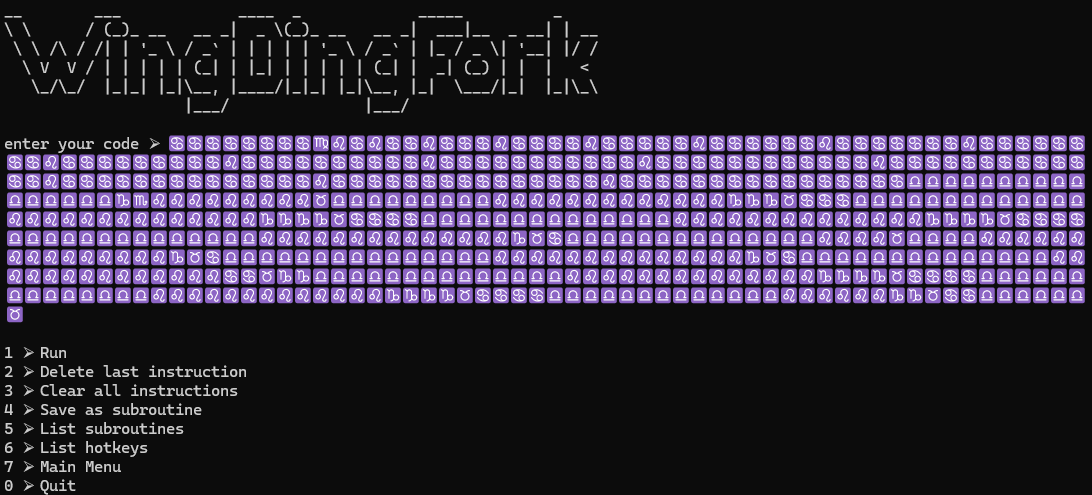
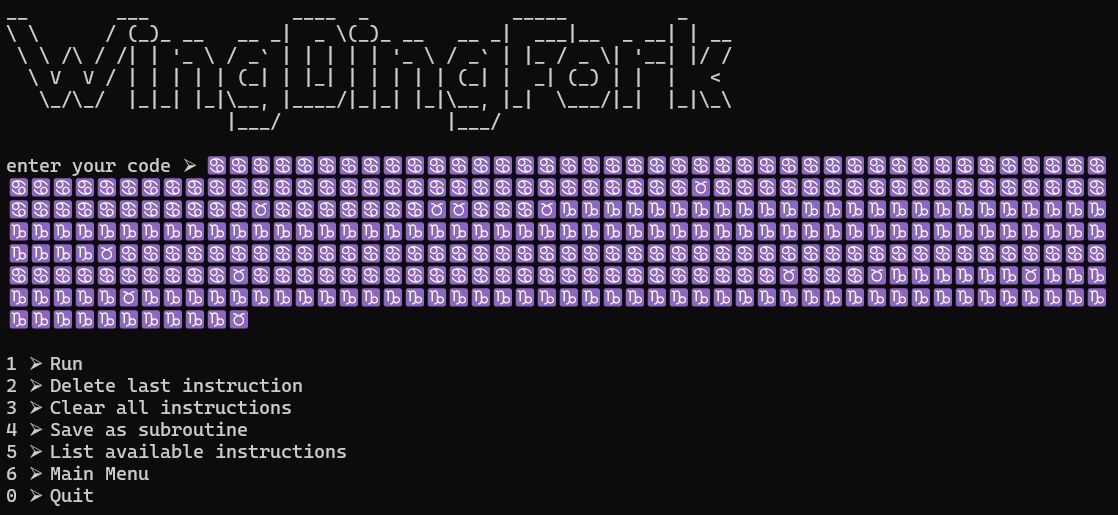
refs

diff --git a/dingfork/Main.cs b/dingfork/Main.cs
@@ -52,9 +52,8 @@ namespace dingfork
         2 ⮚ Delete last instruction
         3 ⮚ Clear all instructions
         4 ⮚ Save as subroutine
-        5 ⮚ List subroutines
-        6 ⮚ List hotkeys
-        7 ⮚ Main Menu
+        5 ⮚ List available instructions
+        6 ⮚ Main Menu
         0 ⮚ Quit
 
         """;
@@ -66,7 +65,6 @@ namespace dingfork
              "Pop",
              "Clear",
              "Save",
-             "ListSubroutines",
              "ListHotkeys",
              "MainLoop"
        ];
